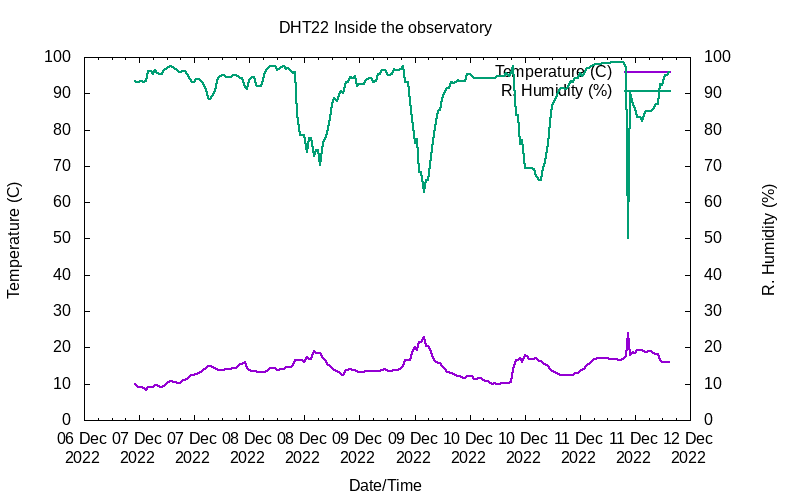
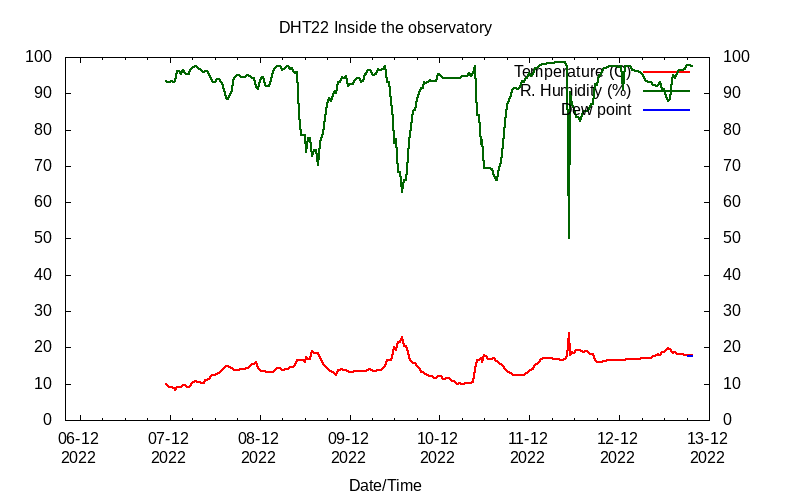
update files

diff --git a/dht22logger.py b/dht22logger.py
@@ -4,19 +4,33 @@ import os
 import time
 import Adafruit_DHT
 import subprocess
+import numpy as np
 
 DHT_SENSOR = Adafruit_DHT.DHT22
 DHT_PIN = 4
-
-f = open('/home/pi/dht22_server/plot.txt', 'a+')
-if os.stat('/home/pi/dht22_server/plot.txt').st_size == 0:
-            print("Logging.")
-
 humidity, temperature = Adafruit_DHT.read_retry(DHT_SENSOR, DHT_PIN)
 
-if humidity is not None and temperature is not None:
-    f.write('{0},{1},{2:0.1f},{3:0.1f}\r\n'.format(time.strftime('%m/%d/%y'), time.strftime('%H:%M'), temperature, humidity))
-    subprocess.run(["gnuplot", "/home/pi/dht22_server/plot.conf"])
+def dewpoint_approximation(T,RH):
+    Td = (b * gamma(T,RH)) / (a - gamma(T,RH))
+    return Td
 
-else:
-    print("Failed to retrieve data from humidity sensor")
+def gamma(T,RH):
+    g = (a * T / (b + T)) + np.log(RH/100.0)
+    return g
+
+f = open('plot.txt', 'a+')
+
+if humidity is not None and temperature is not None:
+
+   a = 17.271
+   b = 237.7
+
+   T = temperature
+   RH = humidity
+
+   Td = dewpoint_approximation(T,RH)
+
+   f.write('{0},{1},{2:0.1f},{3:0.1f},{4}\r\n'.format(time.strftime('%m/%d/%y'), time.strftime('%H:%M'), temperature, humidity, round(Td,1)))
+
+   subprocess.run(["gnuplot", "plot.conf"])
+

diff --git a/dht22server.py b/dht22server.py
@@ -21,9 +21,9 @@ class Server(BaseHTTPRequestHandler):
               self.end_headers()
             # uncomment for add columns
             # self.wfile.write(bytes("Date,Time,Temperature,Humidity\n", "utf-8"))
-              self.wfile.write(bytes("{0},{1},{2:0.1f}*C,{3:0.1f}%".format(time.strftime('%m/%d/%y'), time.strftime('%H:%M'), temperature, humidity), "utf-8"))
+              self.wfile.write(bytes("{0},{1},{2:0.1f}C,{3:0.1f}%".format(time.strftime('%m/%d/%y'), time.strftime('%H:%M'), temperature, humidity), "utf-8"))
 
-           # image/x-icon mimetype to avoid browser error
+           # image/x-icon mimetype to avoid browser erros 
            elif self.path == "/favicon.ico":
                    iconame = self.path
                    iconame = iconame[1:]
